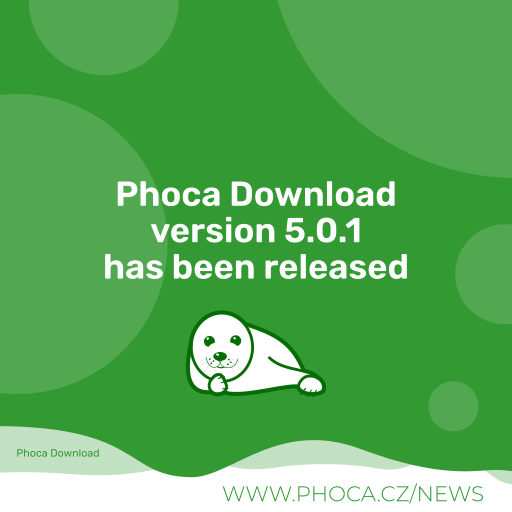
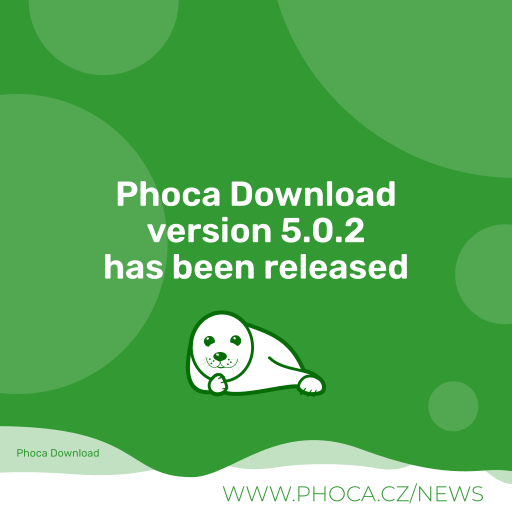
5.0.2

Changed region(s): [[0.2812, 0.4062, 0.7188, 0.5]]

diff --git a/media/js/plupload/jquery.plupload.queue/css/jquery.plupload.queue.css b/media/js/plupload/jquery.plupload.queue/css/jquery.plupload.queue.css
@@ -123,7 +123,7 @@
 }
 .plupload_file_size, .plupload_file_status, .plupload_file_action {text-align: right;}
 
-.plupload_filelist .plupload_file_name {width: 205px}
+.plupload_filelist .plupload_file_name {width: 205px; width: auto;}
 
 .plupload_file_action {
 	float: right;
@@ -167,6 +167,12 @@ li.plupload_done a {
 .plupload_progress_bar {
 	width: 0px;
 	height: 7px;
+	height: 22px;
+}
+
+.plupload_progress_bar.bar,
+.progress.plupload_file_statusbar .bar {
+	background: green;
 }
 
 .plupload_scroll .plupload_filelist_header .plupload_file_action, .plupload_scroll .plupload_filelist_footer .plupload_file_action {

diff --git a/site/models/file.php b/site/models/file.php
@@ -54,7 +54,8 @@ class PhocaDownloadModelFile extends BaseDatabaseModel
 				if (!in_array($this->_file[0]->access, $user->getAuthorisedViewLevels())) {
 					//$app->redirect(JRoute::_('index.php?option=com_user&view=login', false), JText::_("Please login to download the file"));
 					// Return URL
-					$return	= 'index.php?option=com_phocadownload&view=file&id='.$this->_file[0]->id.':'.$this->_file[0]->alias. $limitstartUrl . '&Itemid='. $app->input->get('Itemid', 0, 'int');
+					$return	= 'index.php?option=com_phocadownload&view=file&catid='.$this->_file[0]->catid.':'.$this->_file[0]->categoryalias
+							. '&id='.$this->_file[0]->id.':'.$this->_file[0]->alias. $limitstartUrl . '&Itemid='. $app->input->get('Itemid', 0, 'int');
 					$returnUrl  	= 'index.php?option=com_users&view=login&return='.base64_encode($return);
 					$app->enqueueMessage(Text::_("COM_PHOCADOWNLOAD_PLEASE_LOGIN_DOWNLOAD_FILE"), 'error');
 					$app->redirect(Route::_($returnUrl, false));

diff --git a/site/views/category/tmpl/default_files.php b/site/views/category/tmpl/default_files.php
@@ -66,7 +66,7 @@ if (!empty($this->files)) {
 			$linkDownloadB = '';
 			$linkDownloadE = '';
 			if ((int)$v->confirm_license > 0 || $this->t['display_file_view'] == 1) {
-				$linkDownloadB = '<a class="" href="'. JRoute::_(PhocaDownloadRoute::getFileRoute($v->id, $v->catid,$v->alias, $v->categoryalias, $v->sectionid). $this->t['limitstarturl']).'" >';	// we need pagination to go back
+				$linkDownloadB = '<a class="" href="'. Route::_(PhocaDownloadRoute::getFileRoute($v->id, $v->catid,$v->alias, $v->categoryalias, $v->sectionid). $this->t['limitstarturl']).'" >';	// we need pagination to go back
 				$linkDownloadE ='</a>';
 			} else {
 				if ($v->link_external != '' && $v->directlink == 1) {

diff --git a/README.MD b/README.MD
@@ -100,7 +100,7 @@ Phoca Download is download manager for Joomla! CMS. It includes component, modul
 
 ## Version (Joomla! 5.x)
 
-5.0.1
+5.0.2
 
 
 
